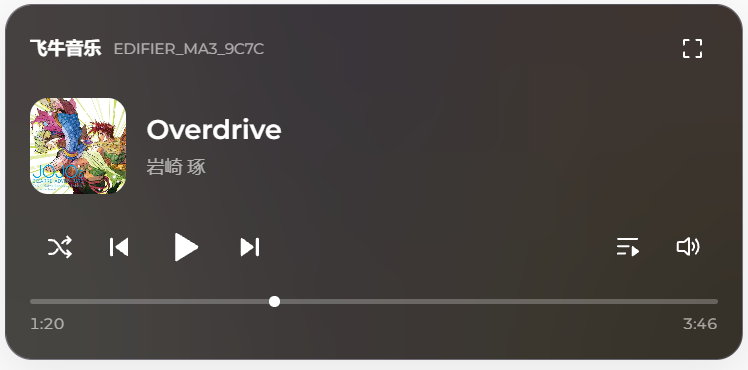
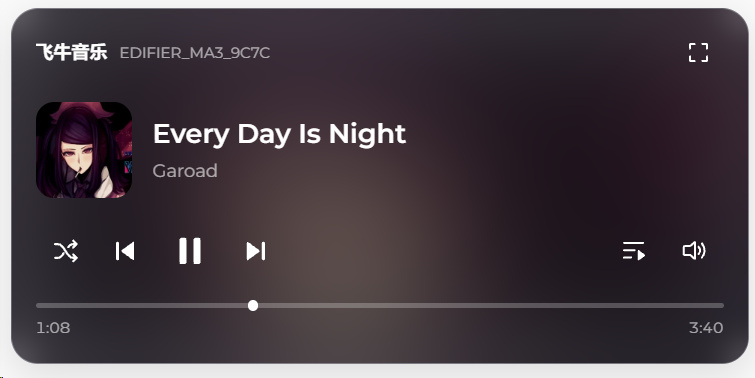
docs: feature updated compact player screenshot first

diff --git a/README.md b/README.md
@@ -8,6 +8,14 @@
 
 使用普通飞牛音乐账号连接，**支持同时接入多个飞牛音乐账号**。本项目为非官方集成，不修改 NAS 上的曲库和歌单。
 
+## 紧凑音乐卡片
+
+日常控制可以用精简播放器。
+
+![精简播放器卡片](docs/images/compact-player.png)
+
+<p align="center"><sub>精简播放器：适合放在日常仪表盘上的紧凑卡片。</sub></p>
+
 ## 独立音乐页面、横竖屏与全屏
 
 选择**完整界面**，搭配 HA 的面板视图，就能在浏览器中把它作为一个独立的音乐网页使用：左侧浏览歌曲、专辑、歌手和歌单，底部保留播放器。
@@ -66,12 +74,6 @@
 配置好集成后，刷新 HA 页面，在仪表盘的“添加卡片”中选择 **FeiNiu Music**，再用可视化编辑器设置播放器和喜欢的外观。卡片会随集成一起更新。
 
 **播放器必须选择本集成为目标音箱生成的对应飞牛播放器实体，不能直接选择原始音箱或其他任意播放器实体。** 接入多个账号时，请选所需账号下对应音箱的飞牛播放器；实际声音由已接入 HA 的音箱播放。
-
-日常控制可以用精简播放器。
-
-![精简播放器卡片](docs/images/compact-player.png)
-
-<p align="center"><sub>精简播放器：适合放在日常仪表盘上的紧凑卡片。</sub></p>
 
 想在卡片里看歌词，可以切换成歌词播放器，或选择自动模式。展示方式、背景和配色都能在可视化编辑器中调整。
 
